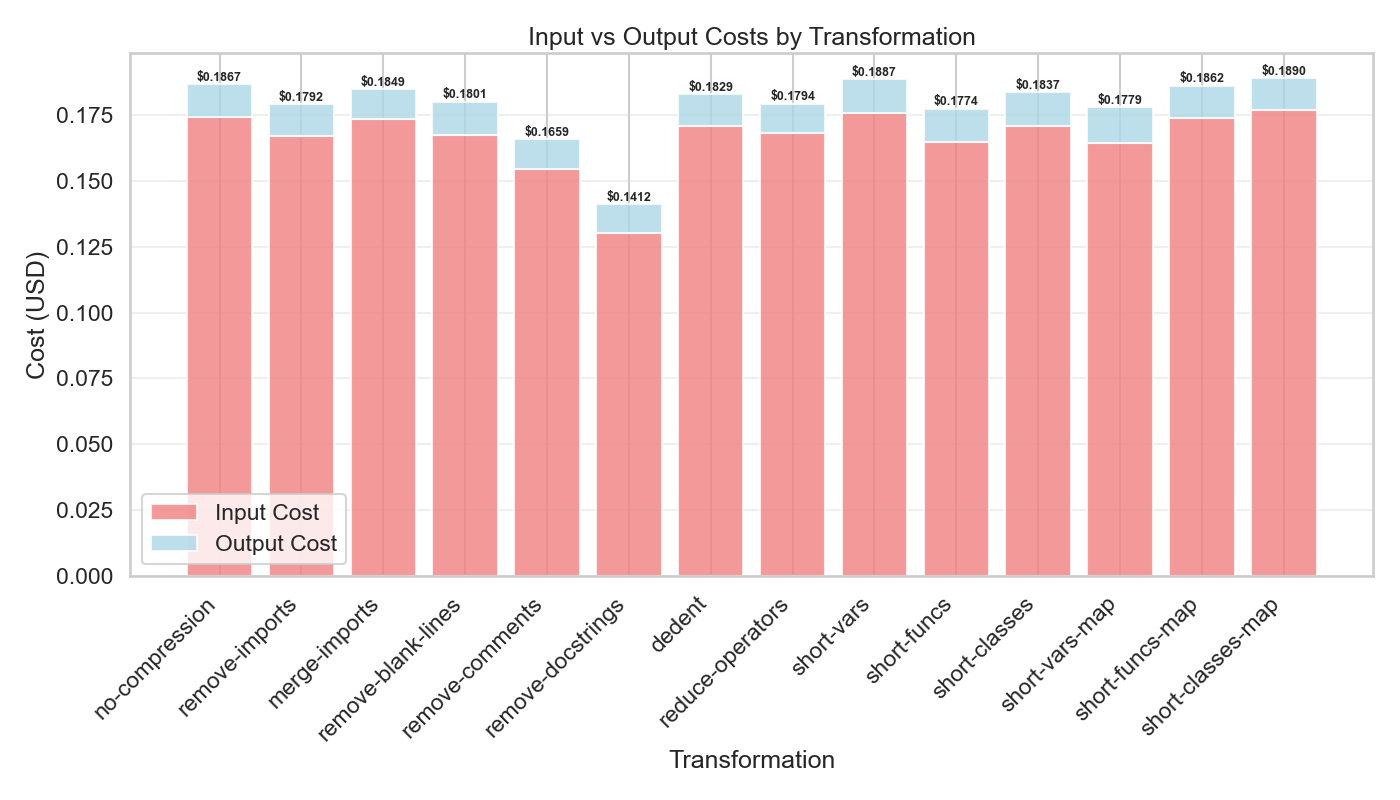
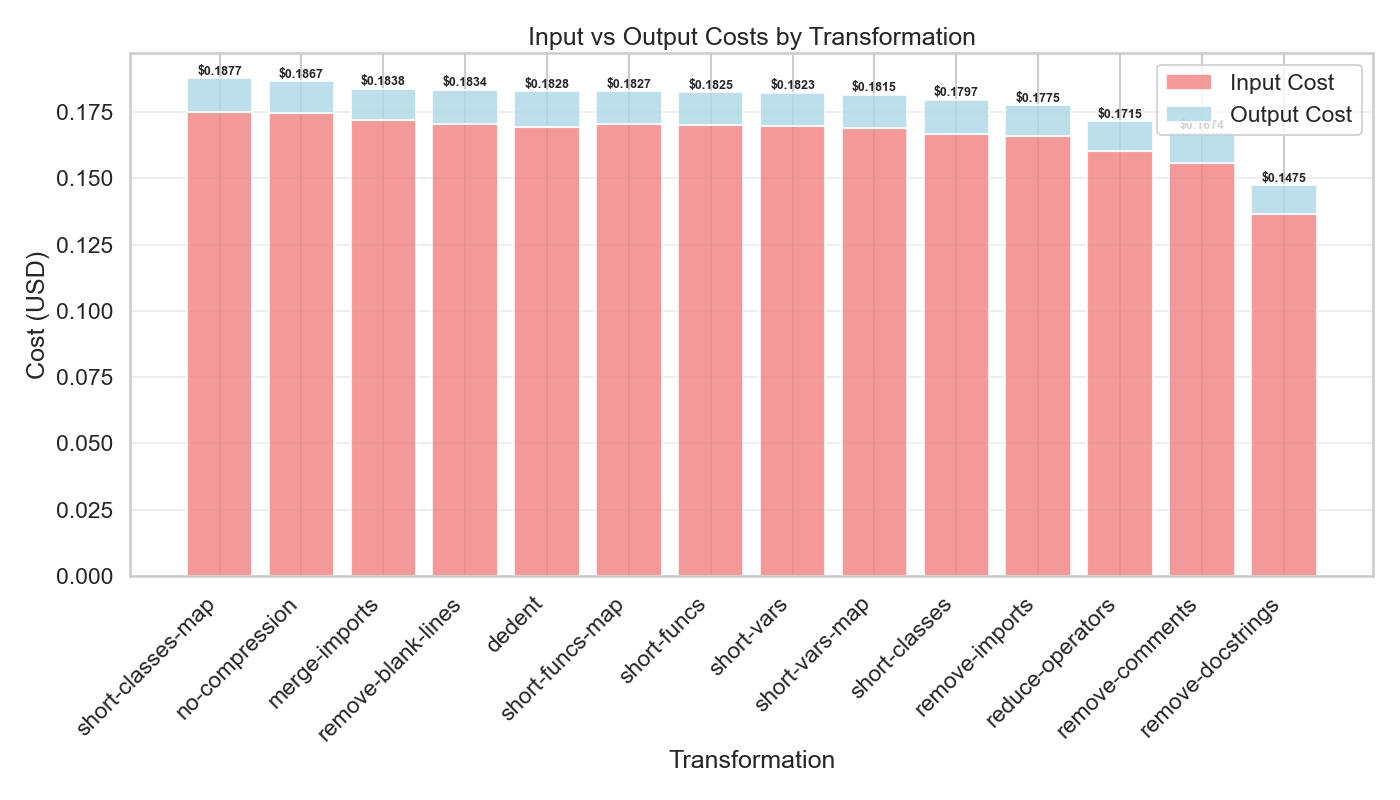
Update plots with new data + sort by cost/performance

diff --git a/analysis/individual_transforms.py b/analysis/individual_transforms.py
@@ -140,6 +140,7 @@ plt.show()
 
 # resolved percentage bar chart
 plt.figure(figsize=(14, 8))
+df_results = df_results.sort_values("resolved_percentage", ascending=False)
 bars = plt.bar(
     df_results["transformation"],
     df_results["resolved_percentage"],
@@ -170,6 +171,7 @@ plt.show()
 
 # stacked bar chart for cost breakdown
 plt.figure(figsize=(14, 8))
+df_results = df_results.sort_values("total_cost", ascending=False)
 
 # create stacked bars
 x_pos = range(len(df_results))
@@ -213,11 +215,7 @@ plt.show()
 plt.figure(figsize=(16, 10))
 
 # Prepare data for stacked bar chart
-transformations = []
-resolved_percentages = []
-unresolved_percentages = []
-error_percentages = []
-empty_patch_percentages = []
+breakdown_data = []
 
 for eval_transform in eval_transform_names:
     performance = performance_data[eval_transform]
@@ -228,11 +226,29 @@ for eval_transform in eval_transform_names:
     errors = performance["error_instances"]
     empty_patches = performance["empty_patch_instances"]
 
-    transformations.append(eval_transform)
-    resolved_percentages.append((resolved / submitted_instances) * 100)
-    unresolved_percentages.append((unresolved / submitted_instances) * 100)
-    error_percentages.append((errors / submitted_instances) * 100)
-    empty_patch_percentages.append((empty_patches / submitted_instances) * 100)
+    resolved_percentage = (resolved / submitted_instances) * 100
+    unresolved_percentage = (unresolved / submitted_instances) * 100
+    error_percentage = (errors / submitted_instances) * 100
+    empty_patch_percentage = (empty_patches / submitted_instances) * 100
+
+    breakdown_data.append(
+        {
+            "transformation": eval_transform,
+            "resolved_percentage": resolved_percentage,
+            "unresolved_percentage": unresolved_percentage,
+            "error_percentage": error_percentage,
+            "empty_patch_percentage": empty_patch_percentage,
+        }
+    )
+
+breakdown_data.sort(key=lambda x: x["resolved_percentage"], reverse=True)
+
+# Extract sorted data
+transformations = [item["transformation"] for item in breakdown_data]
+resolved_percentages = [item["resolved_percentage"] for item in breakdown_data]
+unresolved_percentages = [item["unresolved_percentage"] for item in breakdown_data]
+error_percentages = [item["error_percentage"] for item in breakdown_data]
+empty_patch_percentages = [item["empty_patch_percentage"] for item in breakdown_data]
 
 # Create stacked bar chart
 x_pos = range(len(transformations))
@@ -285,7 +301,8 @@ print(
     f"{'Transformation':<20} {'Resolved':<10} {'Unresolved':<12} {'Errors':<8} {'Empty Patches':<15}"
 )
 print("-" * 70)
-for eval_transform in eval_transform_names:
+for item in breakdown_data:
+    eval_transform = item["transformation"]
     performance = performance_data[eval_transform]
     submitted_instances = performance["submitted_instances"]
 
